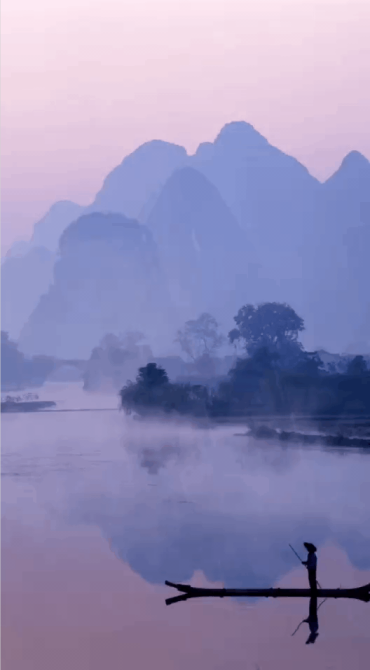
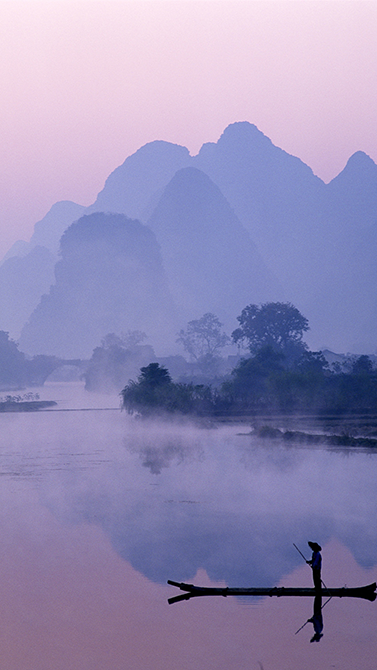
更换了底图

diff --git a/src/components/Apng.vue b/src/components/Apng.vue
@@ -46,6 +46,10 @@
           class="poem-wrap"
         >
           <div class="poem">
+            <div v-if="oldCustomerSharedTimestamp">{{oldCustomerSharedTimestamp}}<br></div>
+            <div v-if="PoemProvince">我在{{PoemProvince}}<br></div>
+
+            <div><br></div>
             <div
               v-for="(item,i) in poems[selectedPoemIndex].poem"
               :key='i'
@@ -64,16 +68,18 @@
         @click="saveImg()"
         src='../assets/share-btn.png'
       >
-      <button
+      <!-- <button
         v-if="!isOldCustomer"
         class="select-city"
         @click="selectCity()"
-      > 进入理想省份 </button>
-      <!-- <img 
-        class="customize-btn"
+      > 进入理想省份 </button> -->
+
+      <img
+        v-if="!isOldCustomer"
+        class="select-city"
+        @click="selectCity()"
         src='../assets/customize-btn.png'
-        @click="routeToCustomize()"
-      > -->
+      >
 
       <!-- 全季logo -->
       <img
@@ -117,10 +123,13 @@ export default {
       selectedImgIndex: 0,
       selectedPoemIndex: 0,
       selectedAudioIndex: 0,
+      selectedProvince: 0,
+      oldCustomerSharedTimestamp: 0,
       imgsSrc: [
         { path: require("../assets/3.png"), width: 528, height: 960 },
         { path: require("../assets/mountain.png"), width: 352, height: 640 }
       ],
+      provinces: [{ provinceCode: '-shanghai', provinceName: '上海' }, { provinceCode: '-beijing', provinceName: '北京' }],
       imgWidth: 528,
       imgheight: 960,
       canvasWidth: 0,
@@ -140,27 +149,35 @@ export default {
         }
       ],
       baseMap: [
-        { path: require("../assets/普通底图.png"), width: 370, height: 670 },
-        { path: require("../assets/普通底图2.jpg"), width: 411, height: 731 },
+        { path: require("../assets/普通底图.png"), width: 377, height: 670 },
+        { path: require("../assets/普通底图2.png"), width: 377, height: 670 },
       ],
+      PoemProvince: '',
+      oldCustomerSharedTimestamp: ''
     }
   },
 
   mounted () {
+    // 判断是否是老客
+    this.isOldCustomer = this.$route.params.isOldCustomer == 'true';
+    console.log('是否是老客', this.isOldCustomer);
+
     let that = this;
     this.selectedImgIndex = this.$route.params.cid.split('-')[0];
     this.selectedAudioIndex = this.$route.params.cid.split('-')[1];
     this.selectedPoemIndex = this.$route.params.cid.split('-')[2];
-
-    // 判断是否是老客
-    this.isOldCustomer = this.$route.params.isOldCustomer == 'true';
-    console.log('是否是老客', this.isOldCustomer);
+    if (!this.isOldCustomer) {
+      this.selectedProvince = this.$route.params.cid.split('-')[3];
+      this.PoemProvince = this.provinces.filter(x => x.province === this.provinceCode)[0].provinceName;
+      this.oldCustomerSharedTimestamp = this.timestampToTime(parseFloat(this.$route.params.cid.split('-')[4]));
+    }
+    debugger
 
     //播放诗歌动画
     let btn = this.$refs.btn;
     this.$refs.btn.click();
 
-    //播放视频 
+    //播放视频  
     this.print();
 
     //  wx.config({
@@ -178,7 +195,6 @@ export default {
     //画要下载的图片
     if (this.isOldCustomer) {
       this.printSaveImg();
-      debugger
     } else {
       this.canSave = false;
     }
@@ -212,7 +228,19 @@ export default {
 
     },
     selectCity () {
-      this.$router.replace({ name: "CitySelect" });
+      const hash =
+        this.selectedImgIndex.toString() +
+        "-" +
+        this.selectedAudioIndex.toString() +
+        "-" +
+        this.selectedPoemIndex.toString();
+
+      this.$router.replace({
+        name: "CitySelect",
+        params: {
+          cid: hash,
+        }
+      });
     },
     getBase64Image (img) {
       var canvas = document.createElement("canvas");
@@ -240,6 +268,7 @@ export default {
         ctx.drawImage(imgBase, 0, 0);
         that.printPoem();
         that.printQCode();
+
         debugger
         that.$refs.theImg.src = that.$refs.theCanvas.toDataURL();
         debugger
@@ -250,8 +279,12 @@ export default {
       ctx.font = "16px bold 黑体";
       ctx.fillStyle = "#FFFFFF";
 
+      let poemContent = [...this.poems[this.selectedPoemIndex].poem];
+      poemContent.push(`我在${this.PoemProvince}`);
+      poemContent.push(`${this.timestampToTime(parseFloat(this.oldCustomerSharedTimestamp))}`);
       // 诗词竖排控制
-      this.poems[this.selectedPoemIndex].poem.forEach((text, index) => {
+      debugger
+      poemContent.forEach((text, index) => {
         let name = text; // 文本内容
         let x = 100 + index * 25,
           y = 100; // 文字开始的坐标
@@ -278,12 +311,10 @@ export default {
         }
       })
     },
-
     // 画二维码部分
     printQCode () {
-
       let that = this;
-      let url = window.location.href + '-sh' + '-1588066930730';
+      let url = window.location.href + '-shanghai' + '-1588066930730';
       // 设置生成的二维码的属性
       let opts = {
         errorCorrectionLevel: 'H',
@@ -295,19 +326,39 @@ export default {
         // 生成二维码
         let ctx = this.$refs.theCanvas.getContext("2d");
         let imgQRCode = new Image();
-        debugger
         imgQRCode.src = base64;
         imgQRCode.onload = function () {
 
           //使用canvas控制生成二维码的大小
           ctx.drawImage(imgQRCode, 0, 0, imgQRCode.width, imgQRCode.height, 30, 30, 70, 70);
           that.$refs.theImg.src = that.$refs.theCanvas.toDataURL();
-          debugger
         };
-
       }).catch(e => {
         console.error('e', e);
       })
+    },
+    printLogo () {
+      let imgLogo = new Image();
+      imgLogo.src = require('../assets/title.png');
+      // imgLogo.onload = func
+    },
+    timestampToTime (timestamp) {
+      if (timestamp) {
+        if (timestamp === 0) {
+          return ''
+        }
+        if (timestamp.length != 10) {
+          debugger
+          var date = new Date(timestamp);//时间戳为10位需*1000，时间戳为13位的话不需乘1000
+        } else {
+          var date = new Date(timestamp * 1000);
+        }
+        const Y = date.getFullYear() + '年';
+        const M = (date.getMonth() + 1 < 10 ? '0' + (date.getMonth() + 1) : date.getMonth() + 1) + '月';
+        const D = date.getDate() + '日';
+        debugger
+        return Y + M + D;
+      }
     }
   }
 }
@@ -392,7 +443,7 @@ video {
   font-family: "Microsoft YaHei";
 }
 .poem {
-  font-size: 1.1rem;
+  font-size: 1rem;
   text-align: left;
   /* margin: 0 auto; */
   height: 40vh;
@@ -457,7 +508,6 @@ video {
   left: 0;
   right: 0;
   /* top: 0; */
-  border: 1px solid black;
   bottom: 30%;
   width: 10rem;
   height: 3rem;

diff --git a/src/components/CitySelect.vue b/src/components/CitySelect.vue
@@ -12,7 +12,7 @@
         <select
           class="form-control"
           @change="ModifyProvince()"
-          v-model="selectvideoIndex"
+          v-model="selectedImgIndex"
         >
           <option
             v-for=" item in Region"
@@ -23,6 +23,9 @@
       </div>
       <div style="text-align: center;">
         请选择你的理想省份
+      </div>
+      <div style="text-align: center;">
+        进入选择页
       </div>
     </div>
   </div>
@@ -43,22 +46,28 @@ export default class CitySelect extends Vue {
   msg = "Welcome to Your Vue.js App";
   show = false;
   selectedImg = 0;
-  selectedAudio = 0;
-  selectedPoem = 0;
   imgsSrc = [
     { path: require("../assets/3.png"), width: 528, height: 960 },
     { path: require("../assets/mountain.png"), width: 352, height: 640 }
   ];
   imgWidth = 320;
   imgheight = 640;
-  selectvideoIndex = -1;
+  selectedImgIndex = -1;
+  selectedAudioIndex = -1;
+  selectedPoemIndex = -1;
   Region = [
     { province: "-请选择-", videoIndex: -1 },
     { province: "北京", videoIndex: 0 },
     { province: "上海", videoIndex: 1 }
   ];
   created() {}
-  mounted() {}
+  mounted() {
+    this.selectedImgIndex = parseFloat(this.$route.params.cid.split("-")[0]);
+    this.selectedAudioIndex = parseFloat(this.$route.params.cid.split("-")[1]);
+    this.selectedPoemIndex = parseFloat(this.$route.params.cid.split("-")[2]);
+    this.ModifyProvince();
+    debugger;
+  }
   animations: { [key: string]: Promise<IAnimation> } = {};
   getAnimation(url: string): Promise<IAnimation> {
     if (!this.animations[url]) {
@@ -70,8 +79,8 @@ export default class CitySelect extends Vue {
   currentAnimation: IAnimation | null = null;
   downloading = false;
   async ModifyProvince() {
-    if (this.selectvideoIndex > -1) {
-      this.selectedImg = this.selectvideoIndex;
+    if (this.selectedImgIndex > -1) {
+      this.selectedImg = this.selectedImgIndex;
       // let canvansTest = document.getElementById("apng-canvas");
       this.imgWidth = this.imgsSrc[this.selectedImg].width;
       this.imgheight = this.imgsSrc[this.selectedImg].height;

diff --git a/src/components/Share.vue b/src/components/Share.vue
@@ -38,7 +38,8 @@ export default class Share extends Vue {
     { path: require("../assets/mountain.png"), width: 352, height: 640 }
   ];
   baseMap = [
-    { path: require("../assets/普通底图.png"), width: 370, height: 670 }
+    { path: require("../assets/普通底图.png"), width: 377, height: 670 },
+    { path: require("../assets/普通底图2.png"), width: 377, height: 670 }
   ];
   poems = [
     {

diff --git a/public/index.html b/public/index.html
@@ -3,7 +3,7 @@
 
 <head>
   <meta charset="utf-8">
-  <meta name="viewport" content="width=device-width,initial-scale=1.0">
+  <meta name="viewport" content="width=device-width,initial-scale=1.0,user-scalable=no" />
   <!-- <link href="https://cdn.bootcss.com/bootstrap/3.3.7/css/bootstrap.min.css" rel="stylesheet"> -->
   <title>全季诗签</title>
   <script src='./apng-canvas.min.js'></script>

diff --git a/src/router/index.ts b/src/router/index.ts
@@ -41,7 +41,7 @@ export default new Router({
     name: 'Share',
     component: Share
   }, {
-    path: '/citySelect',
+    path: '/citySelect/:cid',
     name: 'CitySelect',
     component: CitySelect
   }, {
